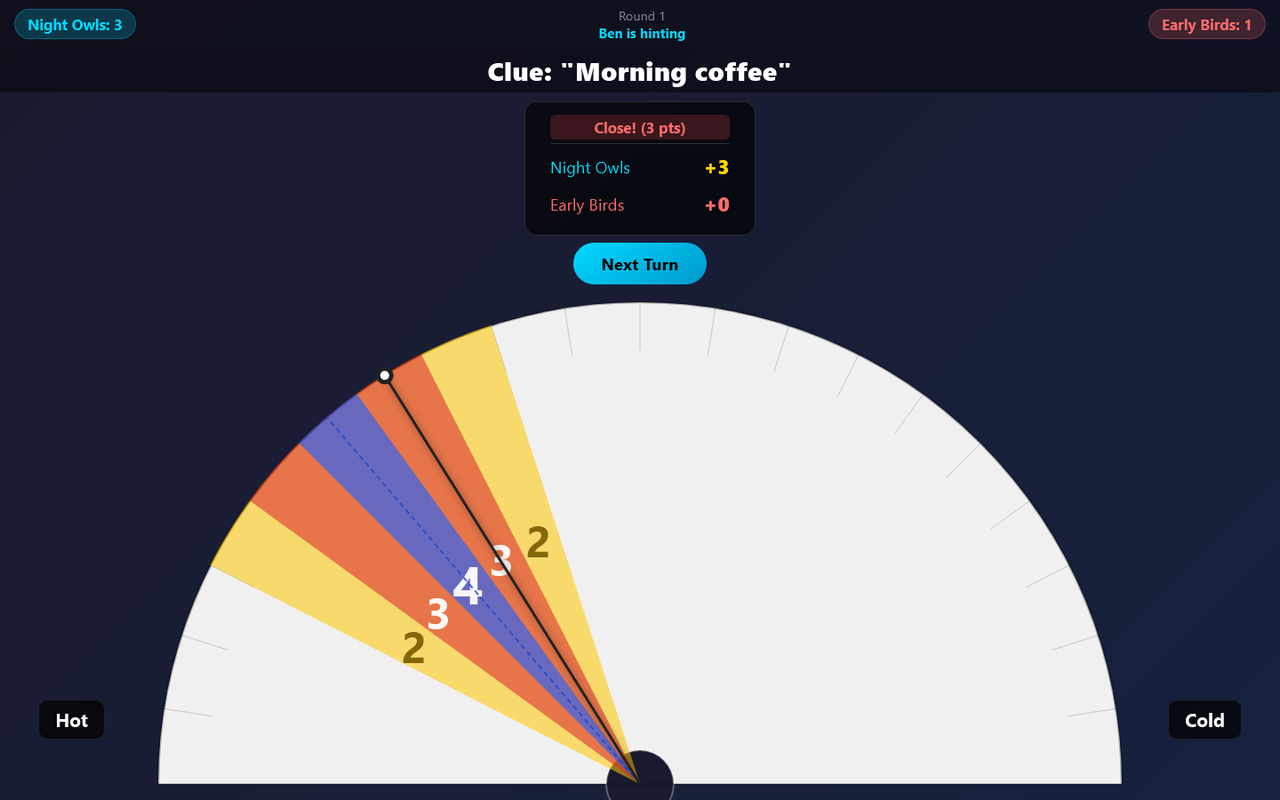
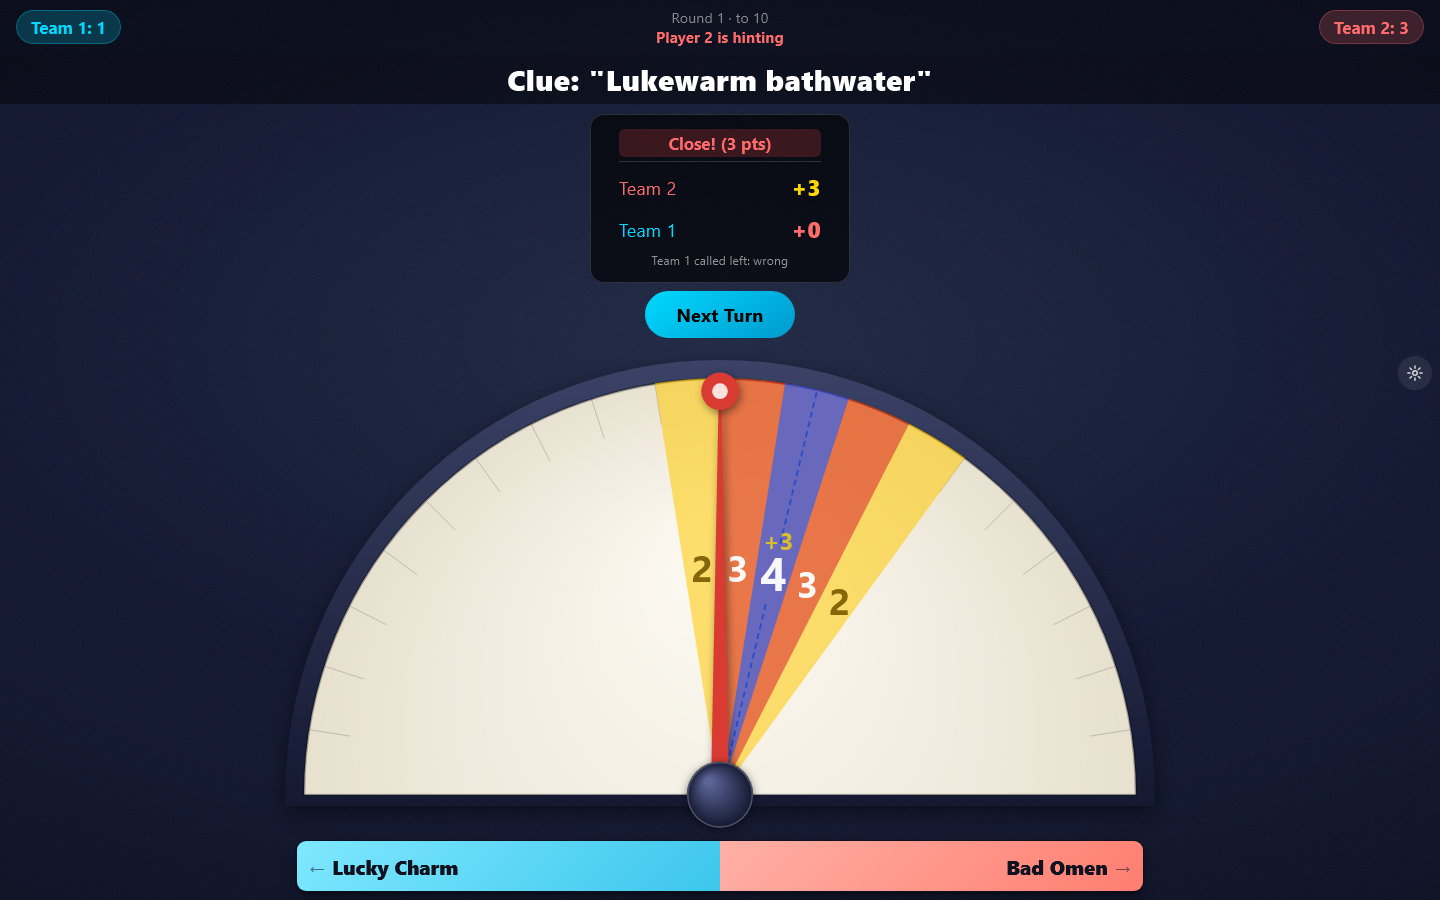
Handoff + README: wave status, Online guard numbers, computer measurement, Tim's calls, new screenshots

diff --git a/CLAUDE.md b/CLAUDE.md
@@ -1,16 +1,23 @@
 # Wavelength
 
-A browser version of the party game Wavelength for two teams sharing one screen (Tim's phone or laptop, passed around in person). One player (the "Hinter") sees a hidden target on a half-circle dial between two opposites, types a clue, their team drags the pointer, the other team calls left/right, then the reveal scores it. No accounts, no backend, nothing saved between visits.
+A browser version of the party game Wavelength for two teams sharing one screen (Tim's phone or laptop, passed around in person). One player (the "Hinter") sees a hidden target on a half-circle dial between two opposites, types a clue, their team turns the dial, the other team calls left/right, then a shutter reveal scores it. No accounts, no backend. Saved on the device only: custom card lists and ticks, the game in progress, seen cards, My stats, sound settings.
 
 - **Live:** https://timothyhadfield.github.io/wavelength/ (GitHub Pages, repo `TimothyHadfield/wavelength`, branch `main`, root folder)
-- Handoff notes: `progress.md` (state, traps, NOT verified). Global rules: `~/.claude/CLAUDE.md`.
+- Handoff notes: `progress.md` (state, traps, NOT verified), `chat.md` (session log). Global rules: `~/.claude/CLAUDE.md`.
 
 ## File map
-- `index.html`: the whole app. CSS in `<style>`, JS in one `<script>` at the bottom. No libraries, no build step.
-  - `CARD_LISTS`: the built-in "Basic" list (71 spectrum cards). Players can add their own lists on the menu; those live only in memory until the tab closes.
-  - `gameState` + `GamePhase`: MENU → PSYCHIC_PREP (look-away overlay) → CLUE_ENTRY → GUESS_PHASE → COUNTER_GUESS → REVEAL → next turn, or GAME_OVER.
-  - `setPhase()`: shows the right panel/overlay for each phase. `resolveRound()` / `calculateScore()`: scoring.
-  - Dial: drawn on `#dialCanvas`. `resizeCanvas()` sizes it to `#dialContainer` (window resize + a ResizeObserver, because the panels above the dial change its height). `getAngleFromMouse()` maps touch/mouse to 0–180 degrees.
+- `index.html`: markup only (menu, game screen, game over, three sheets: Cards, Settings, How to play). Scripts at the bottom, in this order: `fx.js`, `profile.js`, `profile-wl.js`, `cards.js`, `pwa.js` (no defer), `app.js`. Bump every `?v=N`, `data-version="N"` and `BUILD` in app.js together.
+- `js/app.js`: the game (classic script, globals).
+  - `CARD_LISTS` (built from `WL_LISTS` + saved custom lists, key `wavelength:lists` = `{custom, off}`).
+  - `gameState` + `GamePhase`: MENU → PSYCHIC_PREP (look-away) → CLUE_ENTRY → GUESS_PHASE → COUNTER_GUESS → REVEAL → next turn, or GAME_OVER.
+  - `setPhase()` shows each phase and calls `saveGame()` (key `wavelength:game`, local games only; cleared on MENU/GAME_OVER). `resumeGame()` in `init()` brings it back (CLUE_ENTRY resumes at the look-away screen). REVEAL never rescored: it uses `round.pointsAwarded` if set.
+  - Dial: `resizeCanvas()` fits dial + rim + spectrum card (`#specCard`) into `#dialContainer` (ResizeObserver). `setGuess()` clamps, ticks per 9° section. `playReveal()` = shutter animation, then sounds/celebration; the score card and scoreboard wait for it.
+  - `drawCard()` prefers cards not in `wavelength:seen` (cards seen in earlier games on this device).
+  - `setupProfile()` / `onGameOver()` (records once per game), `setupFx()`, `renderSettingsSheet()`, `PWA.safeToReload` (only MENU/GAME_OVER, no sheet open, no input focused).
+- `js/cards.js`: `WL_LISTS`, 11 built-in lists, 471 original cards (Basic 71 + 10 themed × 40).
+- `js/profile-wl.js`: `WL_PROFILE` = Wavelength's 8 achievements + `resultFromGame()` (pure, node-tested).
+- Kit copies, **byte-for-byte, never edit here** (`.gitattributes` `-text`): `js/fx.js` (_fx), `css/table.css` (_table 1.0.2), `js/profile.js` + `css/profile.css` (_profile), `sw.js` + `js/pwa.js` + `tools/make-icons.mjs` + `tools/pwa-check.mjs` (_pwa). Update by re-copying from `Board and Card Games/_<kit>/`.
+- `manifest.webmanifest`, `icons/`, `icon.svg`, `apple-touch-icon.png`: home-screen install.
 - `README.md`: GitHub showcase page (screenshots in `docs/screenshots/`).
 
 ## Game rules as built (don't change without Tim)
@@ -19,15 +26,18 @@ A browser version of the party game Wavelength for two teams sharing one screen 
 - Counter-guess: the other team gets 1 point for the right side, only when the guessers didn't get 4.
 - The team that goes second starts with 1 bonus point. Play to 8/10/15/20 (default 10).
 - Hinter rotates within each team; the first hinter and first team are random.
-- Game over is checked when "Next Turn" is pressed. If both teams pass the target in the same round, the higher score wins (exact tie: Team 1 is shown as winner; see progress.md).
+- Game over is checked when "Next Turn" is pressed. If both teams pass the target in the same round, the higher score wins (exact tie: Team 1 is shown as winner; Tim's call, see progress.md).
+- No catch-up rule (official: a trailing team that scores 4 goes again). Not added: Tim's call.
 
 ## Run locally
-`python -m http.server 8110` in this folder (background), then open http://localhost:8110/. Opening `index.html` directly also works.
+`python -m http.server 8110` in this folder (background), then open http://localhost:8110/.
 
-## Test
-There is no test suite in the repo. Verify with headless WebKit only:
-- `node ~/.claude/tools/phone-view.mjs http://localhost:8110/ --out shot.png` (and `--desktop`), stepping through with `--do click:...` / `fill:#clueInput=...`.
-- Taps on the dial need real coordinates (the canvas centre is often outside the half-circle), so for the full flow use a small Playwright script with `page.touchscreen.tap` at `dialGeo` positions. `dialGeo`, `gameState`, `setPhase`, `nextRound` are globals, handy for `page.evaluate`.
+## Test (all headless; Playwright from `~/.claude/tools/node_modules`)
+- `npm test` = `node --test "test/*.test.mjs"` (cards: 400+, no duplicates, shapes; achievements). Node 24 needs the quoted glob, not `test/`.
+- `npm run e2e` (`node tools/e2e.mjs [webkit|chrome] [--shots DIR]`): 22 checks at 393×659 touch: cards sheet, saved lists, tap/nudge/arrow on the dial, resume after reload, settings, shutter, no spoiler, no dial jumps, result reason, fresh cards, no double score after reload, My stats.
+- `npm run layout` (`node tools/layout-check.mjs [webkit|chrome] [--shots DIR]`): 5 sizes (393, 320, 659×393, 1280, 1440) × 6 phases: no overflow, no scroll, button on screen, dial size, rim not cut off.
+- `npm run pwa` (`node tools/pwa-check.mjs`, config `tests/pwa-check.json`): 18 checks (offline, never an old build, safe reload).
+- `SITE_ROOT=<folder>` points e2e/layout at another build (fail-first checks against main).
 
 ## Deploy
 Push to `main`; GitHub Pages serves it within a minute or two. Check with `python ~/.claude/hooks/live-check.py <this folder>`, then tell Tim to hard-refresh.
@@ -35,6 +45,9 @@ Push to `main`; GitHub Pages serves it within a minute or two. Check with `pytho
 ## Traps
 - Every player-typed string (team, player, list and card names) must go through `escapeHtml()` before any `innerHTML`; `textContent` is fine as is.
 - Identify the hinter by `team.hinterIndex`, not by name: two players can share a name.
-- `.screen` uses `100vh` with a `100dvh` override so the dial isn't hidden under iPhone Safari's bottom toolbar. phone-view can't show that toolbar, so check on Tim's phone if the bottom of the dial looks cut off.
-- The viewport meta has `user-scalable=no`; Lighthouse flags it as an accessibility fail. It likely stops accidental zoom while dragging the dial, so it was left alone (Tim's call).
-- Port 8111 is often taken by other projects' local servers during sweeps; Wavelength uses 8110.
+- `.screen` uses `100vh` with a `100dvh` override so the dial isn't hidden under iPhone Safari's bottom toolbar. phone-view can't show that toolbar.
+- The viewport meta has `user-scalable=no` (stops accidental zoom while dragging the dial). Left alone (Tim's call).
+- Anything shown/hidden above the dial changes `#dialContainer`'s height and moves the dial: keep the space (`visibility:hidden`, `.phase-panel.waiting`), never `display:none` mid-step. e2e checks this.
+- ResizeObserver redraws a frame later: in tests, wait ~250 ms before measuring `dialGeo` after a layout change.
+- Files are LF in the working tree; git warns about CRLF (harmless). Kit copies are `-text`.
+- Port 8111 is often taken by other projects' local servers; Wavelength uses 8110. Test scripts use port 0 (random).

diff --git a/progress.md b/progress.md
@@ -1,36 +1,59 @@
 # Wavelength progress
 
 ## START HERE
-Last updated 2026-10-16. Read `CLAUDE.md` (what it is, file map, rules as built, traps), then this file.
+Last updated 2026-10-27. Read `CLAUDE.md` (what it is, file map, rules as built, tests, traps), then this file, then the tail of `chat.md`.
 
 ## Goal right now
-Nothing in progress. The game is finished and live; only fixes when Tim reports something.
+Board-games improvement wave (2026-10-27, Tim: "I want to make our boardgames the best in every single metric we can"). Wavelength's pass is done and live. Open: Tim's calls below; online rooms wait on the Online guard (needs a cheaper `_online` v2 or Tim's OK).
 
 ## Status
 | Area | State |
 |---|---|
-| Game (menu, look-away, clue, guess, counter-guess, reveal, game over) | Works, live on GitHub Pages |
-| Custom card lists | Work, but are not saved between visits (by design so far) |
-| Tests | None in the repo; checked with headless WebKit scripts |
-| Site icon (2026-10-17) | `icon.svg` (cyan dial with target wedge and white needle on navy) + `apple-touch-icon.png` 180 px, linked in `index.html`; replaced the empty favicon |
-| 2026-10-17 fix | "Play to" select was white text on Safari's white native box: now drawn with `appearance:none` + `color-scheme:dark` + own chevron. "+ New List" uses an in-page `appPrompt()` dialog instead of the browser `prompt()` (Cancel/Escape/backdrop = nothing, Enter/OK = add) |
-| 2026-10-16 sweep | Fixed: winner when both teams pass the target in one round; names/cards with `<` or `&`; teammate with the same name as the hinter dropped from the guess line. Added labels, meta description, empty favicon (console 404), `100dvh` for iPhone toolbar. Pixel-identical otherwise |
+| Layout (10-27) | Start Game + dial on screen without scrolling at 393, 320, 659×393, 1280, 1440 (old build failed 7 of 30 checks; now 30/30). Teams side by side, Cards/Settings/How to play in sheets |
+| Cards (10-27) | 471 original cards in 11 lists (was 71). Custom lists + ticks saved on the device. Seen cards come last next game |
+| Dial (10-27) | Device look (rim, cream face, knob, red needle), tap-to-move, ‹ › and arrow keys 1°, section ticks, shutter reveal, score card waits for it (no spoiler, no jump) |
+| Sounds + table look (10-27) | `_fx` sounds/celebrations with Settings switches; `_table` 1.0.2 surface in navy |
+| My stats + install (10-27) | `_profile` (8 achievements), `_pwa` (home screen, offline, never an old build: pwa-check 4/18 without → 18/18) |
+| Resume (10-27) | Game in progress survives reload; reveal never scores twice |
+| Online rooms | **Not built: trips the Online guard** (see numbers below) |
+| Computer player | **Not built: not sensible** with free word vectors (measured, below) |
+| Tests | `npm test` 9, e2e 22, layout 30, pwa 18; WebKit + Chrome |
+
+## Online guard numbers (10-27, reasoned from `_online` README costs)
+Per 5-player online game (~16 turns, ~30 min, dial published only on Lock): moves 4/turn × ~4 writes ≈ 256 writes + heartbeats ≈ 240 writes → **≈ 500 writes, ≈ 1,600 reads per game**. Normal day (30 players ≈ 6 games): ≈ 3,000 writes (15% of 20K), ≈ 9,600 reads (19% of 50K). Busy day (10×): ≈ 30,000 writes (150%), ≈ 96,000 reads (190%). Over the 10% line even on a normal day, so stopped (same as Catan). A live synced dial (what the official app does) would cost more.
+
+## Computer player measurement (10-27)
+GloVe 300d (free, 400k words) "semantic axis" guesser on 74 hand-placed clues (e.g. Hot|Cold "lava" 8°): avg **1.32 pts/clue** vs random 0.69 vs always-middle 0.23; median error 32°; **right half only 47/62** for clear-cut clues (puts "ocean" on Dry, "soap" on Dirty, "calculus" on Easy). 50d: 0.95 pts. A human team would do far better, and a computer Hinter (choosing words) would be worse. Script: scratchpad `wl_eval.py` (not in repo).
 
 ## Authorized next steps
-None.
+- None beyond the 10-27 wave.
 
 ## Standing instructions
-- None recorded from Tim for this project yet. Global rules in `~/.claude/CLAUDE.md` apply.
+- Tim 10-27 (wave brief): "start building every single improvement you can think of after your competitor analysis. For Online play, talk to me before you're going to set something up that requires anything more than the firebase system we already have set up or takes up a large portion of our free plan that we have."
+- Global rules in `~/.claude/CLAUDE.md` apply.
 
 ## Traps
-- See `CLAUDE.md` Traps (escapeHtml, hinterIndex, 100dvh, port 8110).
+- See `CLAUDE.md` Traps (escapeHtml, hinterIndex, 100dvh, dial jumps, ResizeObserver timing, kit copies byte-for-byte).
 
 ## Decisions
-- 2026-10-16 (sweep, no Tim input): exact tie when both teams pass the target in the same round still shows Team 1 as the winner, same as before. Tim decides the real tie rule.
+- 2026-10-16: exact tie when both teams pass the target in the same round shows Team 1 as winner. **Tim decides the real tie rule** (reviewer flagged it again 10-27).
+- 10-27: all built-in lists ticked by default; custom lists now saved on the device.
+- 10-27: online not built (guard); computer not built (measured not sensible).
+- 10-27: reload during the clue step resumes at the look-away screen (the clue screen shows the target).
+
+## Tim's calls (open, 10-27)
+- The 10 new list names and all card wording; achievement names; "My stats" top-left on the menu.
+- Dial look (rim, cream face, red needle), spectrum card colours, navy table surface.
+- How to play text; result line "Team 1 called left: correct"; "Round 1 · to 10"; "tap the side".
+- End game needs two taps.
+- Tie rule; official catch-up rule (trailing team scoring 4 goes again) not added; card skip for the Hinter not added.
+- My stats shows an empty "Vs the computer" heading and Elo 1200 (the shared kit's layout; no computer here).
 
 ## NOT verified
-- The `100dvh` fix on a real iPhone (phone-view's WebKit has no collapsing toolbar, so 100vh and 100dvh measure the same there).
+- A real iPhone: `100dvh`, home-screen app, offline after install, keyboard covering the dial while typing a clue (reasoned risk).
 - Android browsers.
+- Online quota numbers are reasoned from the kit README, not measured.
 
 ## Rejected / parked
-- (none yet)
+- ~~Online rooms via `_online`~~: over the Online guard (above); parked until `_online` v2 cuts writes or Tim OKs it.
+- ~~Computer guesser/Hinter~~: measured not sensible with free word vectors (above).

diff --git a/README.md b/README.md
@@ -2,40 +2,43 @@
 
 A browser version of the party game Wavelength for two teams sharing one screen: one player gives a clue, their team turns the dial, and everyone finds out how close they got.
 
-**[▶ Open the live app](https://timothyhadfield.github.io/wavelength/)** · works on phone and laptop
+**[▶ Open the live app](https://timothyhadfield.github.io/wavelength/)** · works on phone and laptop · installs to the home screen and plays offline
 
 <p align="center">
-  <img src="docs/screenshots/desktop.png" alt="Laptop view: the reveal, with the scoring zones shown around the team's guess" width="68%">
+  <img src="docs/screenshots/desktop.png" alt="Laptop view: the reveal, with the scoring bands shown around the team's guess" width="68%">
   &nbsp;
-  <img src="docs/screenshots/phone.png" alt="Phone view: a team dragging the pointer to guess after the clue 'Morning coffee'" width="24%">
+  <img src="docs/screenshots/phone.png" alt="Phone view: a team turning the dial to guess after the clue 'Warm toast'" width="24%">
 </p>
 
 ## Features
-- **A draggable dial**: the guessing team drags the pointer (mouse or touch) along a half-circle between two opposites, like Hot and Cold.
+- **A real dial**: drag the needle (mouse or touch), or tap anywhere on the dial; ‹ › buttons and the arrow keys move it one degree at a time, with a soft click per section.
 - **Hidden target, fair turns**: a "look away" screen hands the device to the clue-giver, who is the only one to see the target before typing a clue.
-- **Scoring zones**: 4 for a bullseye, 3 for close, 2 for near, shown with an animated reveal on the dial.
+- **Shutter reveal**: the cover swings open over the target, then the bands score it: 4 for a bullseye, 3 for close, 2 for near.
 - **Counter-guess**: the other team calls left or right of the guess to steal a point.
-- **Teams and turn order**: name the teams and players; the app rotates who gives the clue and keeps score to 8, 10, 15 or 20.
-- **About 70 built-in spectrum cards**, plus your own lists you can add, pick from or remove before a game.
+- **471 original spectrum cards** in 11 lists (food, people, places, feelings, silly ones and more), plus your own lists, all saved on the device. Cards you've seen come last next game.
+- **Sounds and animations**, each with an on/off switch in Settings.
+- **My stats**: games played and 8 achievements (Bullseye, Mind reader, Hat trick, ...).
+- **Never loses a game**: a reload or a dropped tab comes back to the same turn.
 
 <p align="center">
   <img src="docs/screenshots/phone-reveal.png" alt="Phone view: the reveal showing a 'Close! (3 pts)' result" width="24%">
 </p>
 
 ## Built with
-One self-contained HTML file with plain CSS and JavaScript (the dial is drawn on a canvas), hosted on GitHub Pages.
+Plain HTML, CSS and JavaScript (the dial is drawn on a canvas), no build step, hosted on GitHub Pages. Shared kits from Tim's game sites: sounds/effects, table look, My stats and home-screen install.
 
 ## How to play
-One player is the **psychic**. They see a hidden target somewhere on a spectrum between
+One player is the **Hinter**. They see a hidden target somewhere on a spectrum between
 two opposites, and give their team a single clue. The team then argues about where on
-that spectrum the target sits and locks in a guess — the closer they land, the more
-points they score. The opposing team gets a chance to guess which side of the guess the
-real target fell on.
+that spectrum the target sits and locks in a guess. The closer they land, the more
+points they score. The other team then calls which side of the guess the real target fell on.
 
 Set up your teams and player names, and the app handles turn order, the spectrum cards,
-the dial and the scoring.
+the dial and the scoring. The **?** button on the menu has the full rules.
+
+## Install on iPhone
+Open the live link in Safari, tap **Share**, then **Add to Home Screen**. Open it once while online; after that it also works with no connection.
 
 ## Running it
-
-A single self-contained HTML file — no build step, no dependencies. Open
-[`index.html`](index.html) in a browser, or use the live link above.
+Serve the folder with any static server (for example `python -m http.server 8110`) and open http://localhost:8110/.
+Tests: `npm test` (cards + achievements), `npm run e2e`, `npm run layout`, `npm run pwa` (need Playwright).

diff --git a/chat.md b/chat.md
@@ -1,0 +1,8 @@
+# Wavelength chat log
+
+## 2026-10-27: improvement wave (builder, resumed after the 02:28 crash)
+- **Asked:** layout first (Start Game + dial without scrolling), 400+ original cards, satisfying dial, sounds via `_fx`, table look via `_table`, online via `_online` (Online guard), keep pass-and-play, computer if sensible, `_profile` + `_pwa`. Ship in pieces.
+- **Built (live):** 399d803 layout + 471 cards + saved lists; 6736641 dial, shutter reveal, fine adjust, sounds, table surface, settings, how to play; 37989e5 My stats, home-screen install/offline, resume after reload; dce8a75 reviewer fixes (laptop rim cut off, dial jump in the left/right step, result reason, fresh cards across games, rules in settings).
+- **Not built:** online (≈ 500 writes/game; busy day 150% of free writes); computer (1.32 pts/clue vs 0.69 random, wrong half on 15 of 62 clear clues).
+- **Verified:** `npm test` 9/9; e2e 22/22 and layout 30/30 in WebKit + Chrome; pwa-check 18/18 (4/18 without the kit); new checks failed on the old build first; live-check + phone-view on the live site (service worker active).
+- **Open:** Tim's calls in progress.md.
